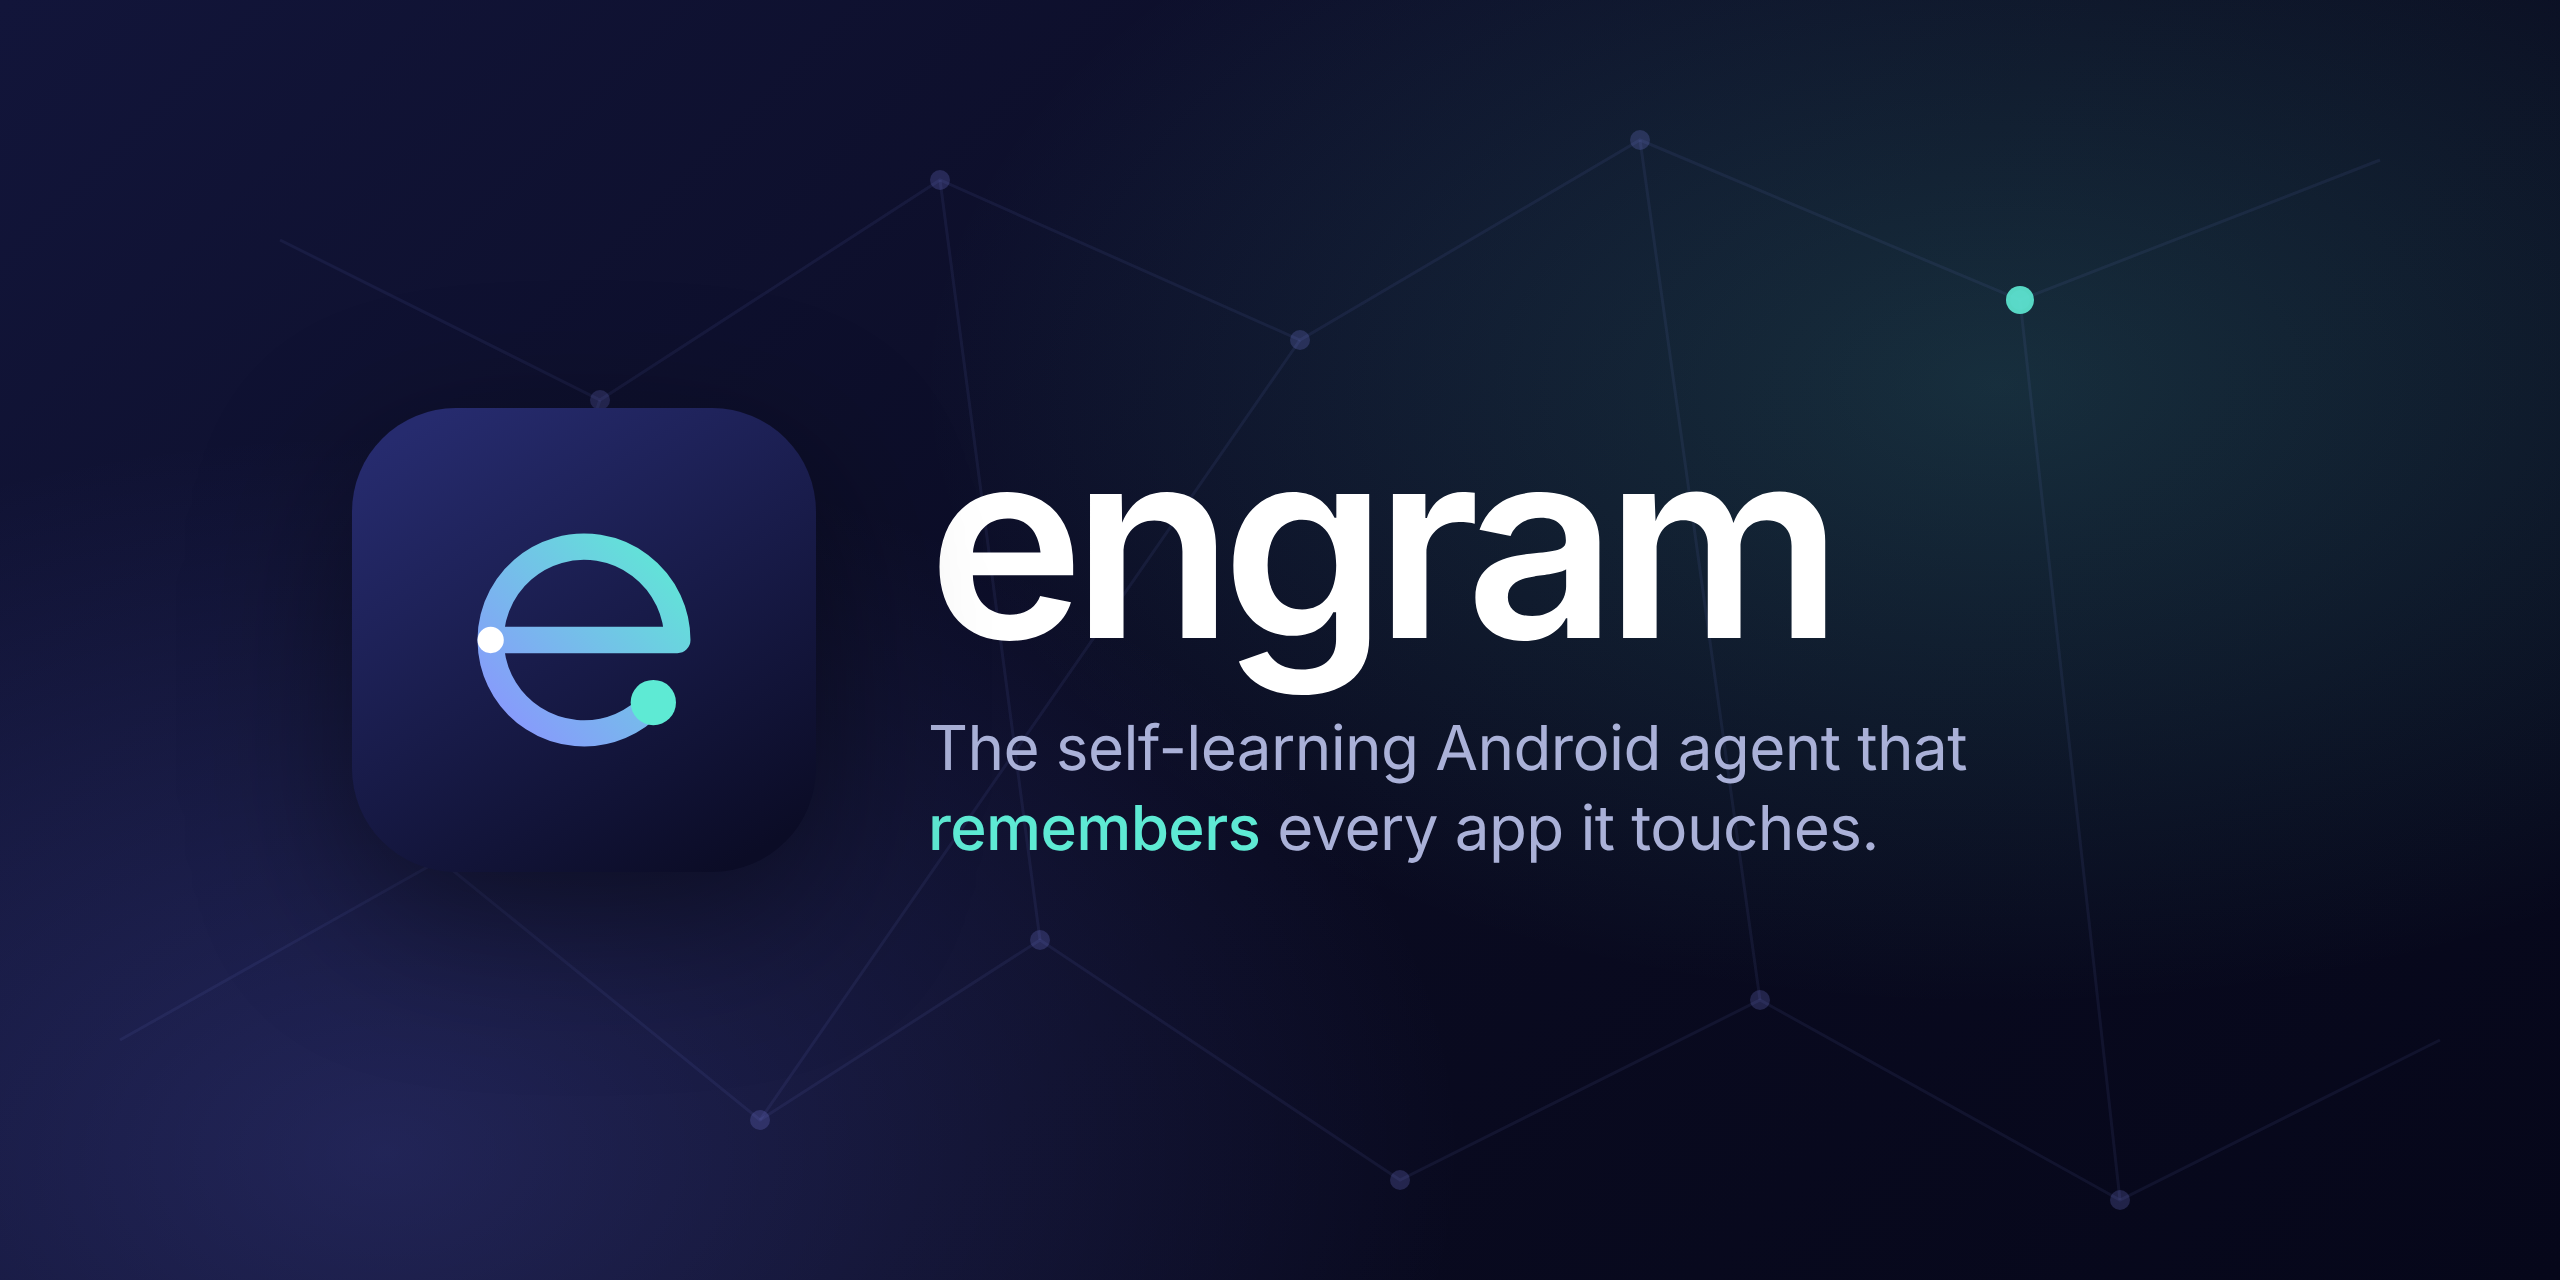
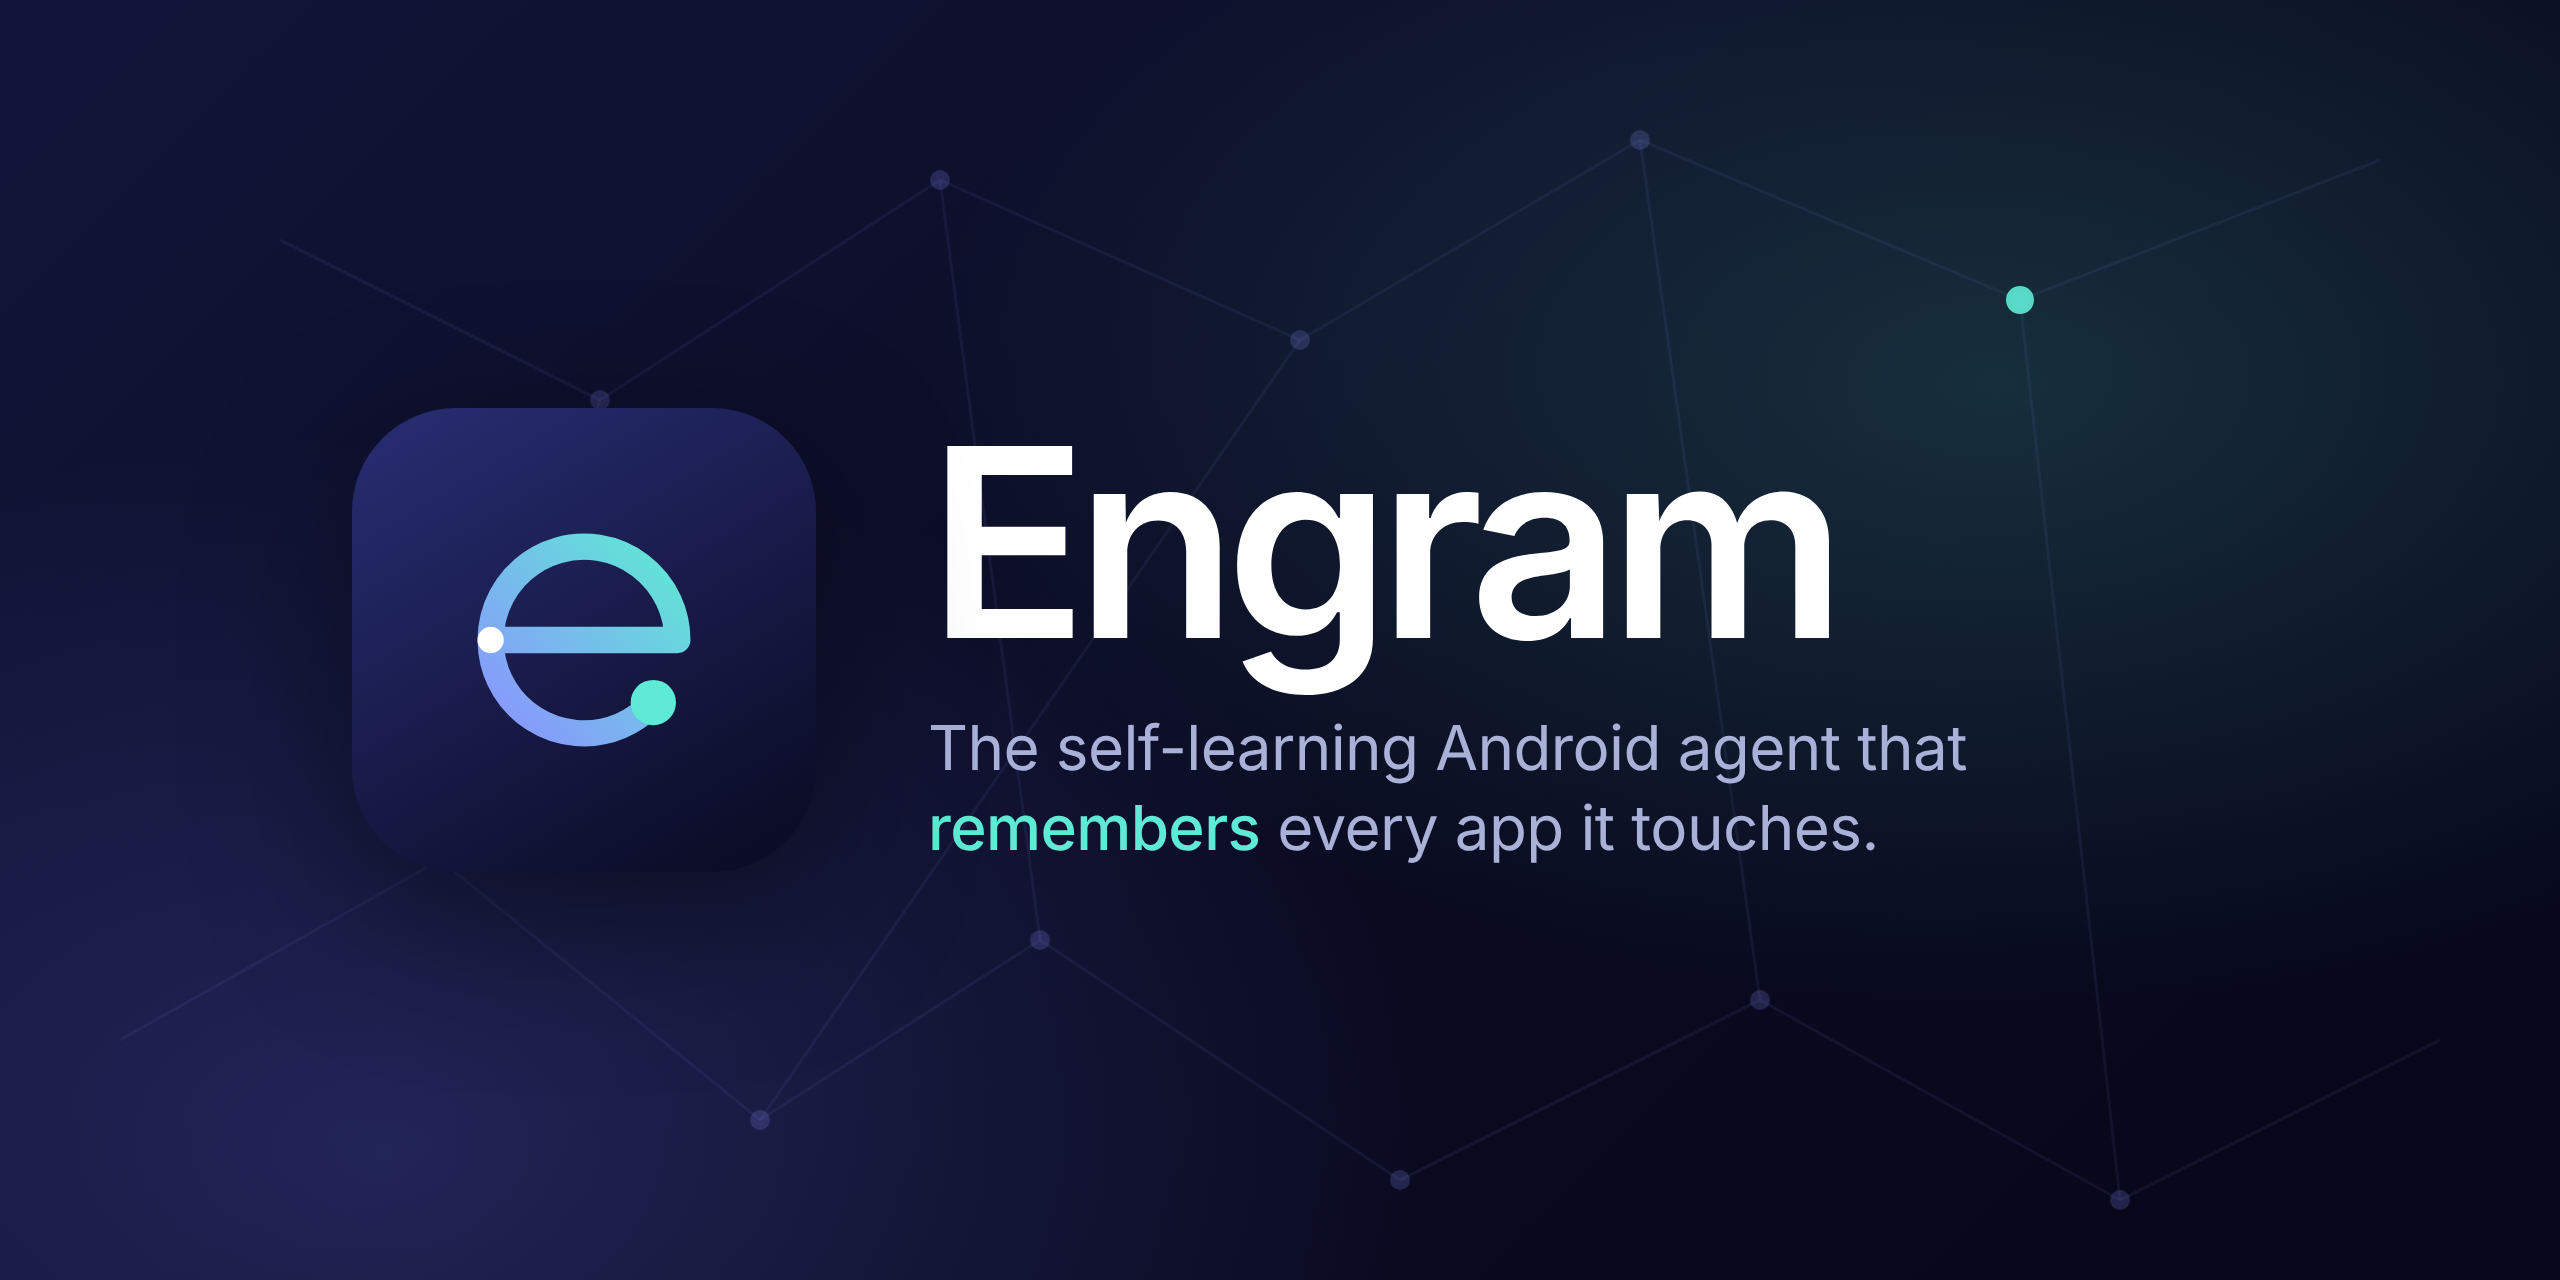
docs: capitalize the Engram wordmark
Claude-Session: https://claude.ai/code/session_01NTksQkuA1M5rgUu1T8u85V

Changed region(s): [[0.3438, 0.3438, 0.5938, 0.5], [0.625, 0.4062, 0.7188, 0.5]]

diff --git a/README.md b/README.md
@@ -1,5 +1,5 @@
 <p align="center">
-  <img src="./docs/assets/brand/engram-banner.png" alt="engram: the self-learning Android agent that remembers every app it touches" width="100%" />
+  <img src="./docs/assets/brand/engram-banner.png" alt="Engram: the self-learning Android agent that remembers every app it touches" width="100%" />
 </p>
 
 <p align="center">
